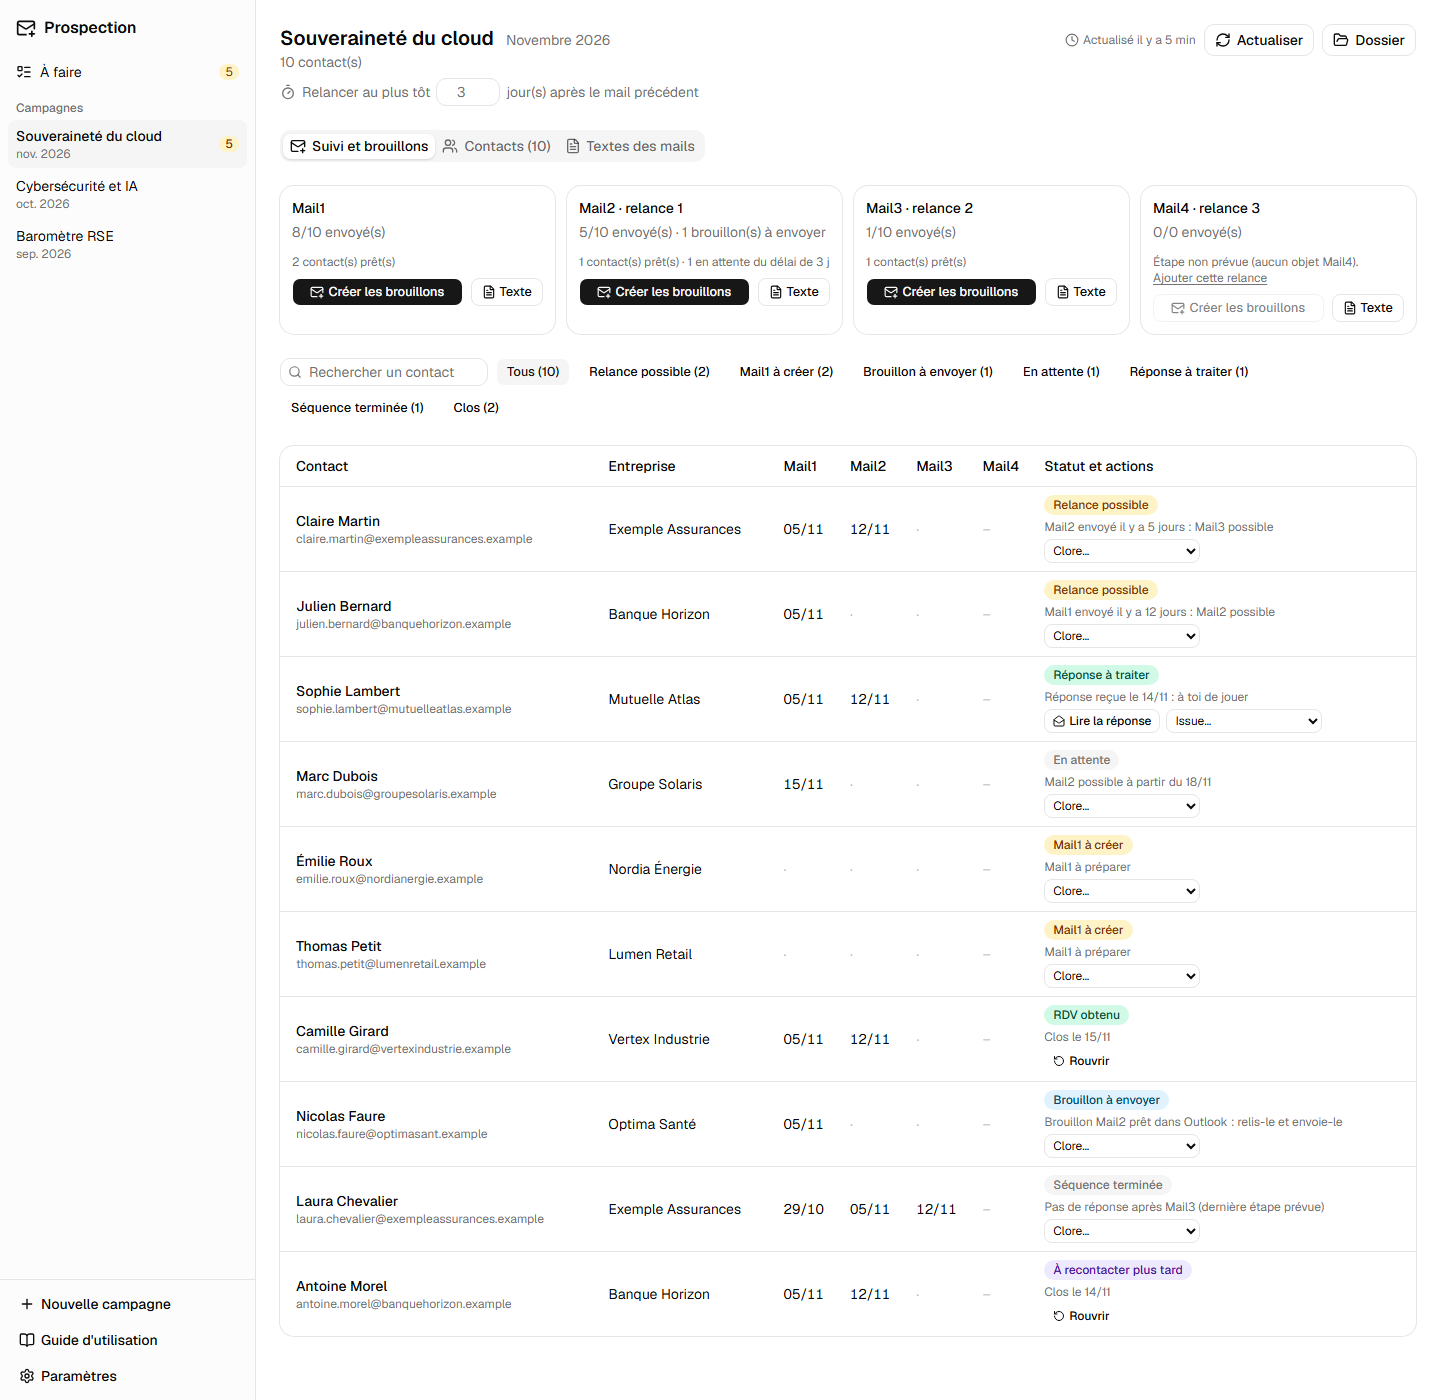
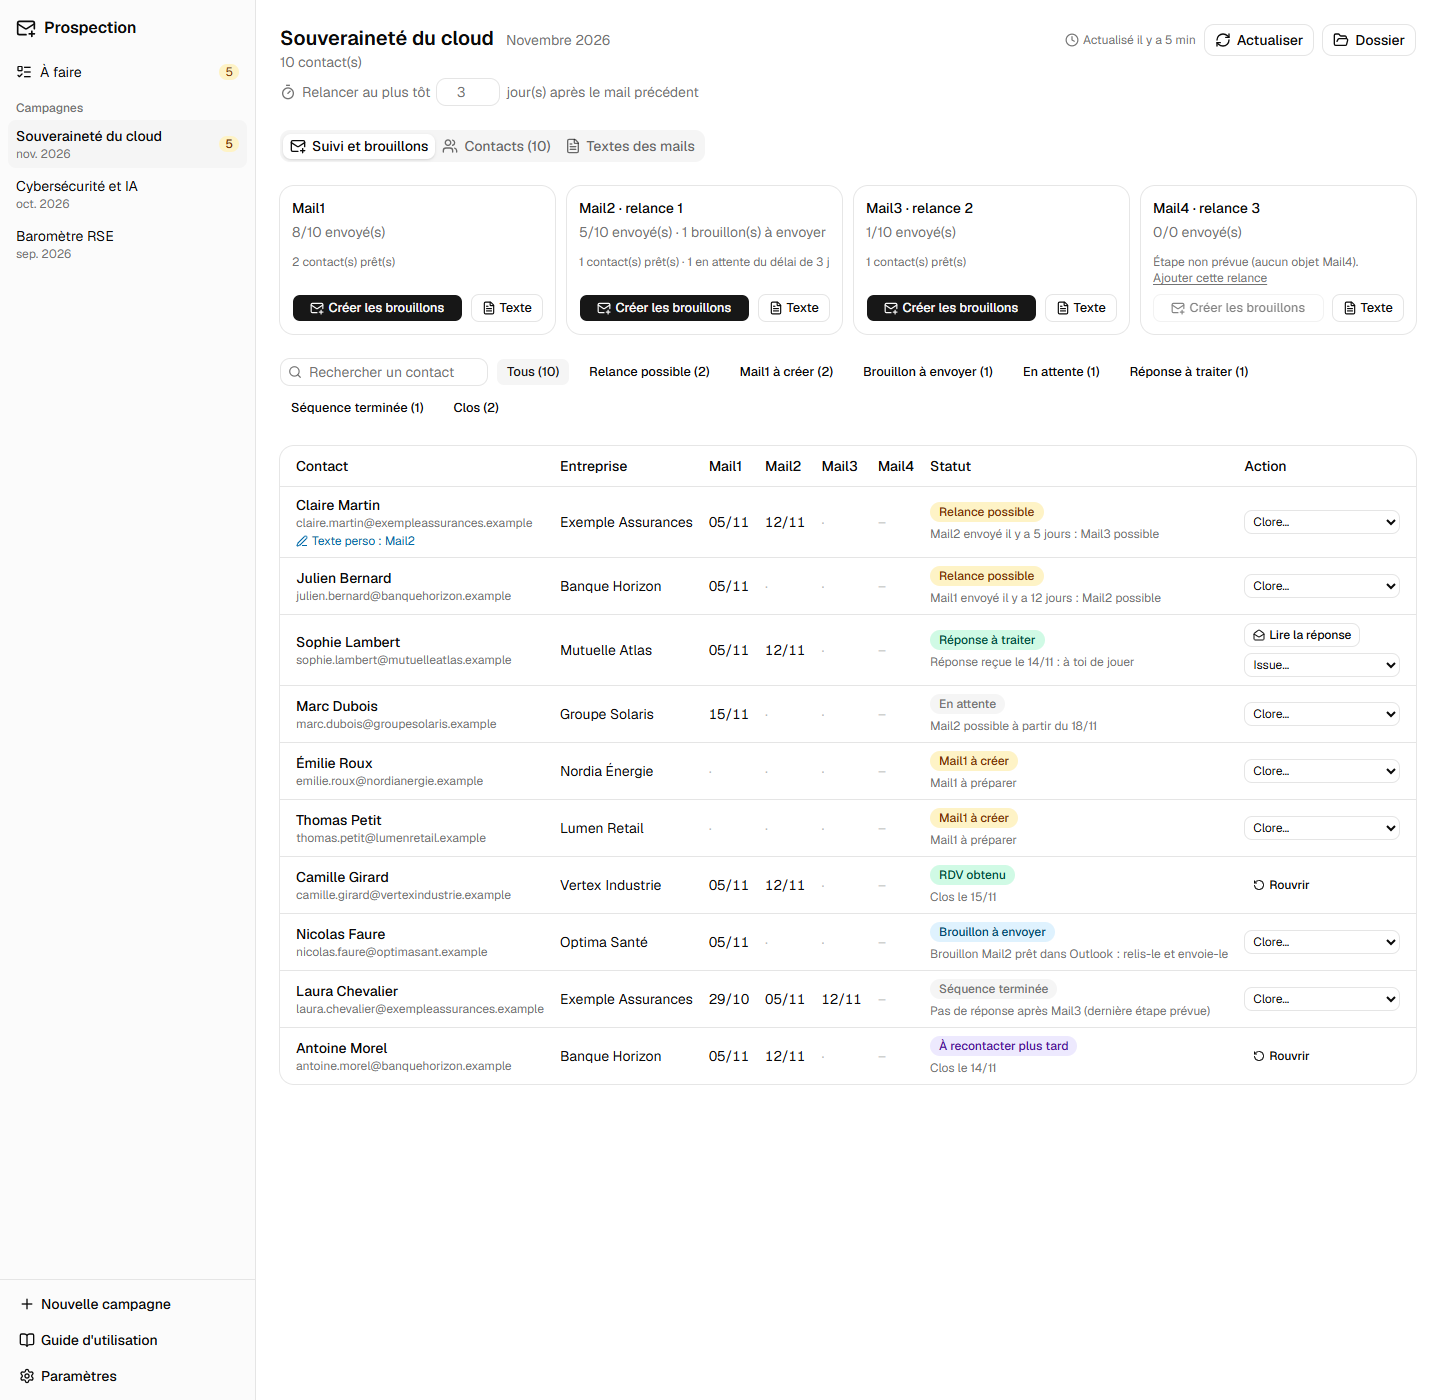
README : captures d'ecran refaites avec l'interface actuelle, capture de l'onglet Textes

diff --git a/README.md b/README.md
@@ -27,6 +27,10 @@ Les relances s'arrêtent d'elles-mêmes pour un contact qui a répondu. Les rép
 
 ![Suivi d'une campagne : étapes, statuts et actions par contact](docs/images/campagne.png)
 
+**Les textes des mails** se rédigent avec un aperçu. Un contact peut recevoir un objet et un texte qui lui sont propres, à n'importe quelle étape.
+
+![Onglet Textes : objet et texte personnalisés d'un contact, avec l'aperçu du mail](docs/images/textes.png)
+
 *Captures réalisées avec des données fictives.*
 
 ## Installation (utilisateurs)
